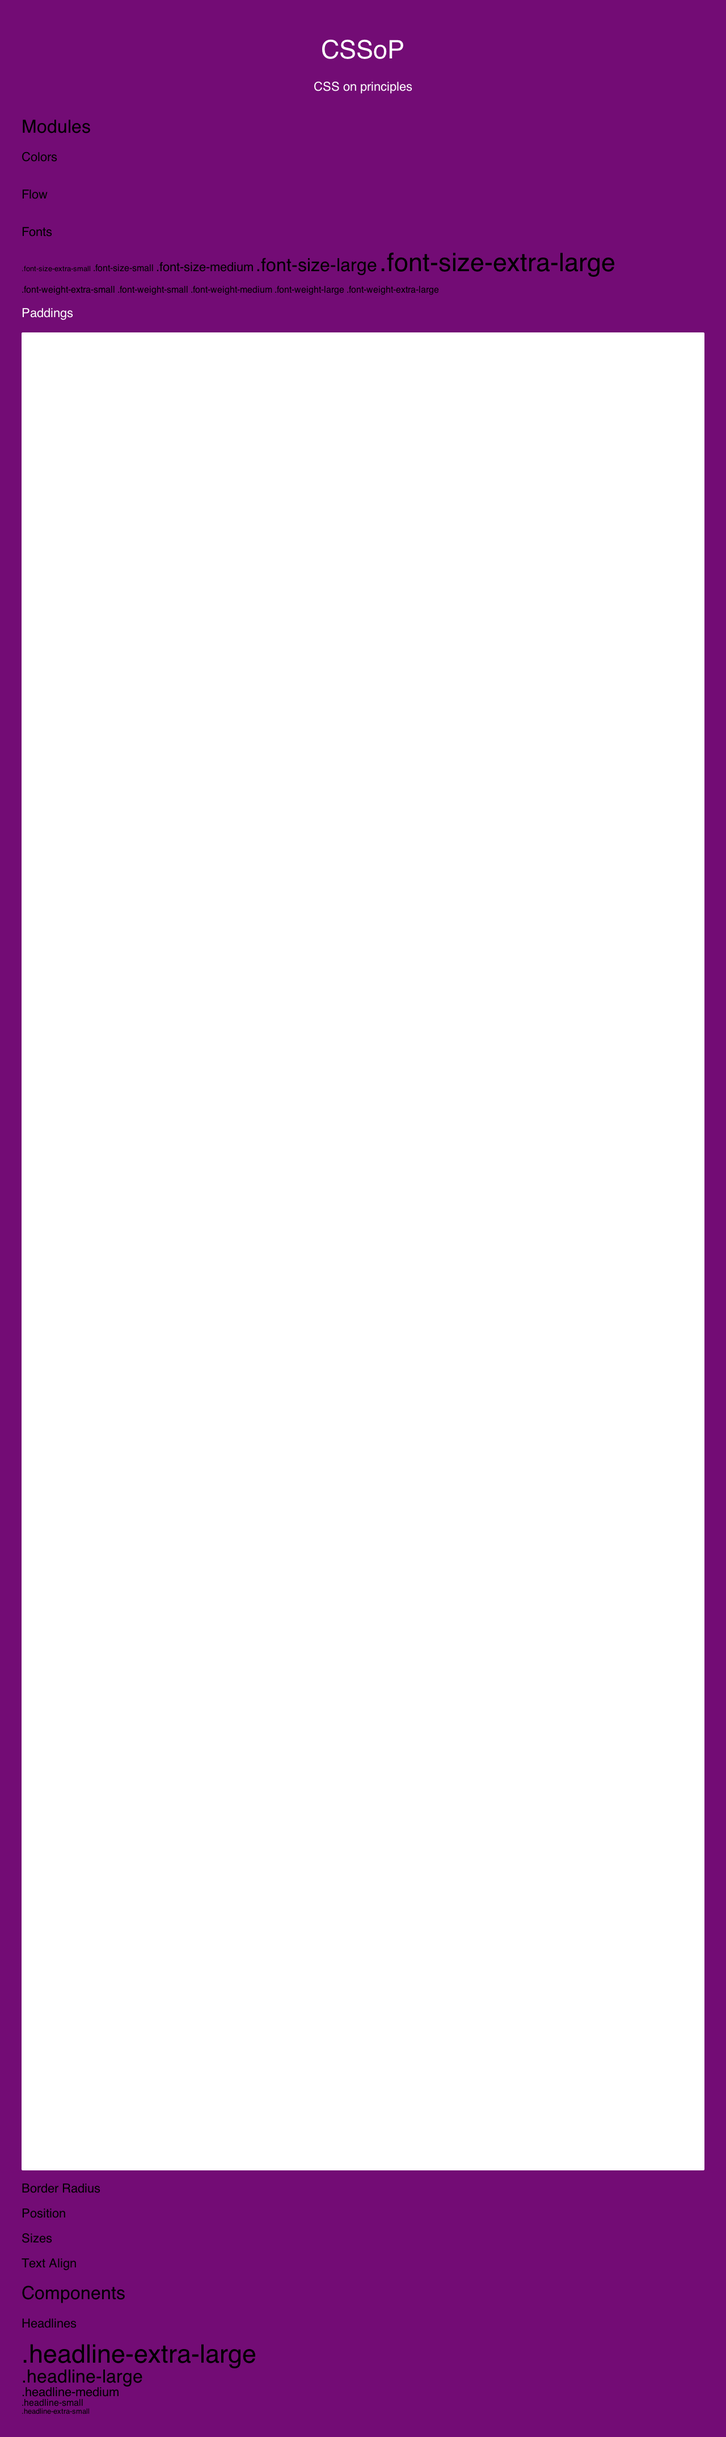
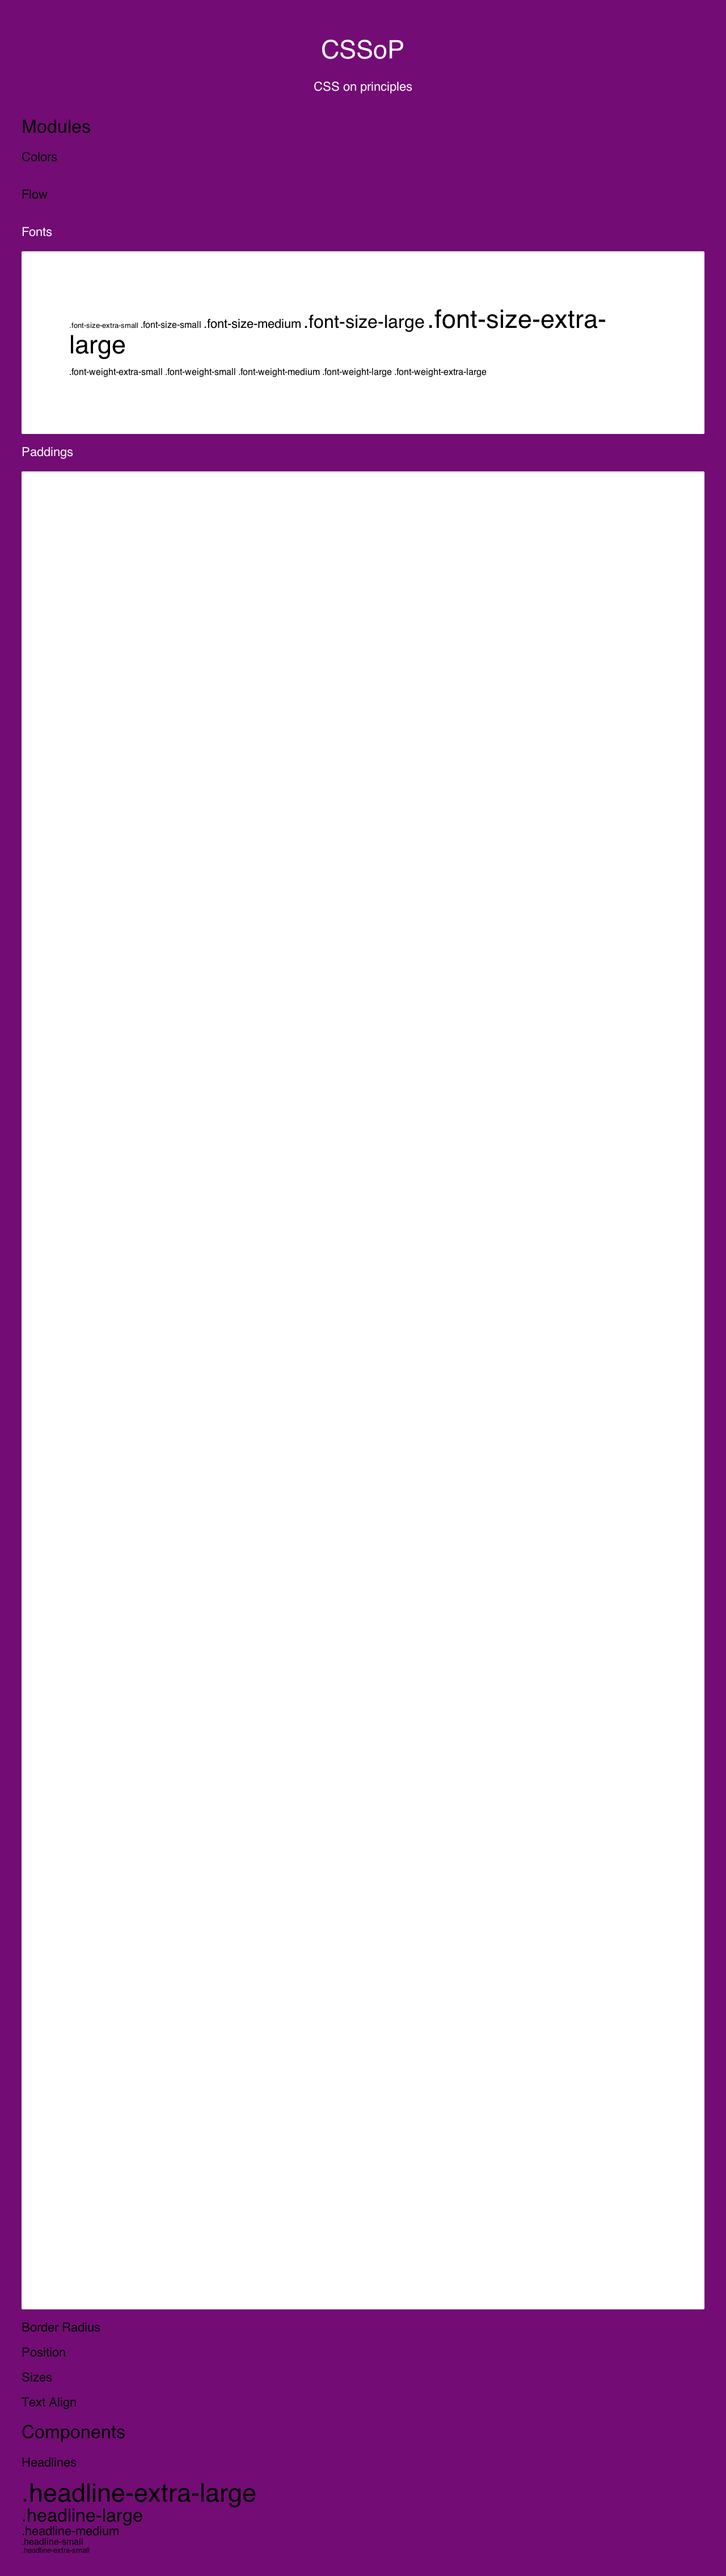
~ fonts, to see if screenshot comparison works

Changed region(s): [[0.0312, 0.0312, 0.9688, 0.1872], [0.0312, 0.8734, 0.9688, 0.9981], [0.4375, 0.0, 0.5312, 0.0312]]

diff --git a/dist/index.html b/dist/index.html
@@ -25,7 +25,8 @@
 <div class='clear-both'></div>
 </section>
 <section data-module='fonts'>
-<h3 class='headline-medium'>Fonts</h3>
+<h3 class='headline-medium text-color-white'>Fonts</h3>
+<div class='background-color-white border-radius-small padding-inset-medium'>
 <p>
 <span class='font-size-extra-small'>.font-size-extra-small</span>
 <span class='font-size-small'>.font-size-small</span>
@@ -40,6 +41,7 @@
 <span class='font-weight-large'>.font-weight-large</span>
 <span class='font-weight-extra-large'>.font-weight-extra-large</span>
 </p>
+</div>
 </section>
 <section data-module='paddings'>
 <h3 class='headline-medium text-color-white'>Paddings</h3>
